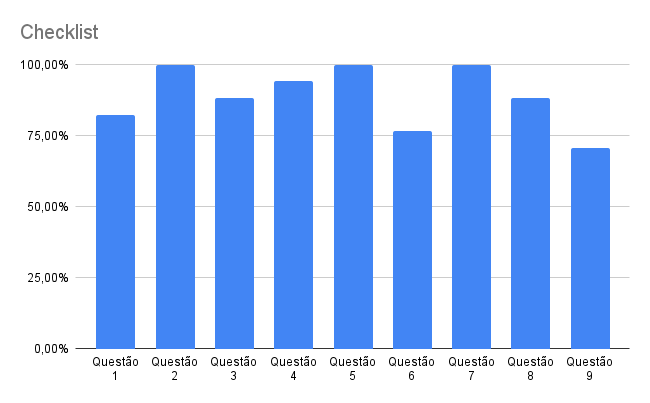
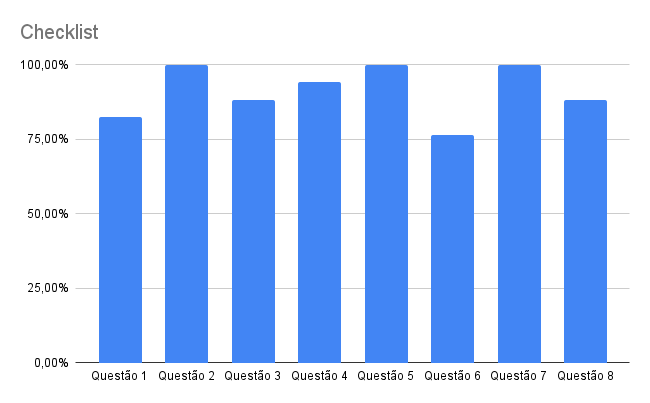
retirando questão 9

diff --git a/docs/analise/verificacao/verificacao-Lexicos.md b/docs/analise/verificacao/verificacao-Lexicos.md
@@ -24,7 +24,6 @@ A técnica de verificação usada nos artefatos de [Léxicos](/2021.2-AntennaPod
 | 6   | Possui sinônimo correto?                          | O léxico deve possuir ao menos um sinonimo correto                                 |
 | 7   | Possui impacto correto?                           | O impacto do léxico deve estar corretamente descrito                               |
 | 8   | Possui noção correta?                             | A noção do léxico deve estar corretamente descrita                                 |
-| 9   | Linguagem e ortografia estão corretas?            | A linguagem e ortografia devem estar condizente com as normas da lingua portuguesa |
 
 ## Checklist
 | Símbolo | Descrição |
@@ -42,7 +41,6 @@ A técnica de verificação usada nos artefatos de [Léxicos](/2021.2-AntennaPod
 |  6  |             Possui sinônimo correto?              | ✔  |
 |  7  |              Possui impacto correto?              | ✔  |
 |  8  |               Possui noção correta?               | ✔  |
-|  9  |      Linguagem e ortografia estão corretas?       | ✔  |
 
 |     |          Léxico 02 - Fila de reprodução           |     |
 | :-: | :-----------------------------------------------: | :-: |
@@ -54,7 +52,6 @@ A técnica de verificação usada nos artefatos de [Léxicos](/2021.2-AntennaPod
 |  6  |             Possui sinônimo correto?              | ❌  |
 |  7  |              Possui impacto correto?              | ✔  |
 |  8  |               Possui noção correta?               | ✔  |
-|  9  |      Linguagem e ortografia estão corretas?       | ✔  |
 
 |     |                 Léxico 03 - Novo                  |     |
 | :-: | :-----------------------------------------------: | :-: |
@@ -66,7 +63,6 @@ A técnica de verificação usada nos artefatos de [Léxicos](/2021.2-AntennaPod
 |  6  |             Possui sinônimo correto?              | ✔  |
 |  7  |              Possui impacto correto?              | ✔  |
 |  8  |               Possui noção correta?               | ✔  |
-|  9  |      Linguagem e ortografia estão corretas?       | ✔  |
 
 |     |       Léxico 04 - Velocidade de reprodução        |     |
 | :-: | :-----------------------------------------------: | :-: |
@@ -78,7 +74,6 @@ A técnica de verificação usada nos artefatos de [Léxicos](/2021.2-AntennaPod
 |  6  |             Possui sinônimo correto?              | ❌  |
 |  7  |              Possui impacto correto?              | ✔  |
 |  8  |               Possui noção correta?               | ✔  |
-|  9  |      Linguagem e ortografia estão corretas?       | ✔  |
 
 |     |                 Léxico 05 - Canal                 |     |
 | :-: | :-----------------------------------------------: | :-: |
@@ -90,7 +85,6 @@ A técnica de verificação usada nos artefatos de [Léxicos](/2021.2-AntennaPod
 |  6  |             Possui sinônimo correto?              | ✔  |
 |  7  |              Possui impacto correto?              | ✔  |
 |  8  |               Possui noção correta?               | ✔  |
-|  9  |      Linguagem e ortografia estão corretas?       | ✔  |
 
 |     |               Léxico 06 - Episódio                |     |
 | :-: | :-----------------------------------------------: | :-: |
@@ -102,7 +96,6 @@ A técnica de verificação usada nos artefatos de [Léxicos](/2021.2-AntennaPod
 |  6  |             Possui sinônimo correto?              | ✔  |
 |  7  |              Possui impacto correto?              | ✔  |
 |  8  |               Possui noção correta?               | ✔  |
-|  9  |      Linguagem e ortografia estão corretas?       |     |
 
 |     |               Léxico 07 - Histórico               |     |
 | :-: | :-----------------------------------------------: | :-: |
@@ -114,7 +107,6 @@ A técnica de verificação usada nos artefatos de [Léxicos](/2021.2-AntennaPod
 |  6  |             Possui sinônimo correto?              | ❌  |
 |  7  |              Possui impacto correto?              | ✔  |
 |  8  |               Possui noção correta?               | ❌  |
-|  9  |      Linguagem e ortografia estão corretas?       | ❌  |
 
 |     |                Léxico 08 - PodCast                |     |
 | :-: | :-----------------------------------------------: | :-: |
@@ -126,7 +118,6 @@ A técnica de verificação usada nos artefatos de [Léxicos](/2021.2-AntennaPod
 |  6  |             Possui sinônimo correto?              | ❌  |
 |  7  |              Possui impacto correto?              | ✔  |
 |  8  |               Possui noção correta?               | ❌  |
-|  9  |      Linguagem e ortografia estão corretas?       | ❌  |
 
 |     |                Léxico 09 - Usuário                |     |
 | :-: | :-----------------------------------------------: | :-: |
@@ -138,7 +129,6 @@ A técnica de verificação usada nos artefatos de [Léxicos](/2021.2-AntennaPod
 |  6  |             Possui sinônimo correto?              | ✔  |
 |  7  |              Possui impacto correto?              | ✔  |
 |  8  |               Possui noção correta?               | ✔  |
-|  9  |      Linguagem e ortografia estão corretas?       | ✔  |
 
 |     |                Léxico 10 - Assinar                |     |
 | :-: | :-----------------------------------------------: | :-: |
@@ -150,7 +140,6 @@ A técnica de verificação usada nos artefatos de [Léxicos](/2021.2-AntennaPod
 |  6  |             Possui sinônimo correto?              | ✔  |
 |  7  |              Possui impacto correto?              | ✔  |
 |  8  |               Possui noção correta?               | ✔  |
-|  9  |      Linguagem e ortografia estão corretas?       | ✔  |
 
 |     |               Léxico 11 - Atualizar               |     |
 | :-: | :-----------------------------------------------: | :-: |
@@ -162,7 +151,6 @@ A técnica de verificação usada nos artefatos de [Léxicos](/2021.2-AntennaPod
 |  6  |             Possui sinônimo correto?              | ✔  |
 |  7  |              Possui impacto correto?              | ✔  |
 |  8  |               Possui noção correta?               | ✔  |
-|  9  |      Linguagem e ortografia estão corretas?       | ✔  |
 
 |     |                Léxico 12 - Baixar                 |     |
 | :-: | :-----------------------------------------------: | :-: |
@@ -174,7 +162,6 @@ A técnica de verificação usada nos artefatos de [Léxicos](/2021.2-AntennaPod
 |  6  |             Possui sinônimo correto?              | ✔  |
 |  7  |              Possui impacto correto?              | ✔  |
 |  8  |               Possui noção correta?               | ✔  |
-|  9  |      Linguagem e ortografia estão corretas?       | ✔  |
 
 |     |               Léxico 13 - Descobrir               |     |
 | :-: | :-----------------------------------------------: | :-: |
@@ -186,7 +173,6 @@ A técnica de verificação usada nos artefatos de [Léxicos](/2021.2-AntennaPod
 |  6  |             Possui sinônimo correto?              | ✔  |
 |  7  |              Possui impacto correto?              | ✔  |
 |  8  |               Possui noção correta?               | ✔  |
-|  9  |      Linguagem e ortografia estão corretas?       | ✔  |
 
 |     |               Léxico 14 - Favoritar               |     |
 | :-: | :-----------------------------------------------: | :-: |
@@ -198,7 +184,6 @@ A técnica de verificação usada nos artefatos de [Léxicos](/2021.2-AntennaPod
 |  6  |             Possui sinônimo correto?              | ✔  |
 |  7  |              Possui impacto correto?              | ✔  |
 |  8  |               Possui noção correta?               | ✔  |
-|  9  |      Linguagem e ortografia estão corretas?       | ❌  |
 
 |     |                Léxico 15 - Filtrar                |     |
 | :-: | :-----------------------------------------------: | :-: |
@@ -210,7 +195,6 @@ A técnica de verificação usada nos artefatos de [Léxicos](/2021.2-AntennaPod
 |  6  |             Possui sinônimo correto?              | ✔  |
 |  7  |              Possui impacto correto?              | ✔  |
 |  8  |               Possui noção correta?               | ✔  |
-|  9  |      Linguagem e ortografia estão corretas?       | ❌  |
 
 |     |               Léxico 16 - Pesquisar               |     |
 | :-: | :-----------------------------------------------: | :-: |
@@ -222,7 +206,6 @@ A técnica de verificação usada nos artefatos de [Léxicos](/2021.2-AntennaPod
 |  6  |             Possui sinônimo correto?              | ✔  |
 |  7  |              Possui impacto correto?              | ✔  |
 |  8  |               Possui noção correta?               | ✔  |
-|  9  |      Linguagem e ortografia estão corretas?       | ✔  |
 
 |     |              Léxico 17 - Reproduzir               |     |
 | :-: | :-----------------------------------------------: | :-: |
@@ -234,7 +217,6 @@ A técnica de verificação usada nos artefatos de [Léxicos](/2021.2-AntennaPod
 |  6  |             Possui sinônimo correto?              | ✔  |
 |  7  |              Possui impacto correto?              | ✔  |
 |  8  |               Possui noção correta?               | ✔  |
-|  9  |      Linguagem e ortografia estão corretas?       | ❌  |
 
 ![CheckList](../../img/Checklist-léxicos.png)
 <p align = "center"> 
